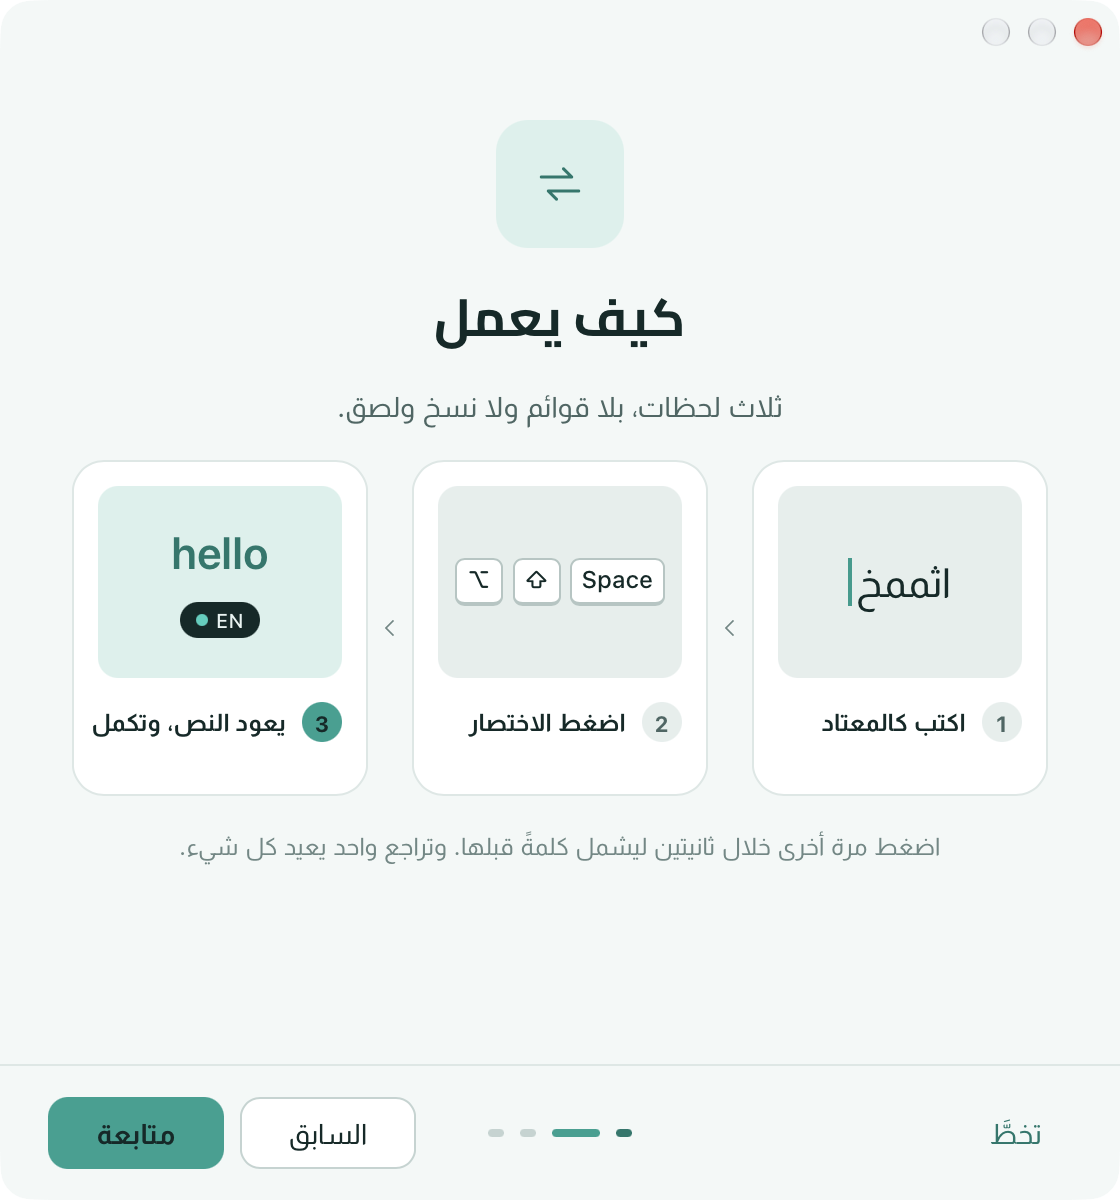
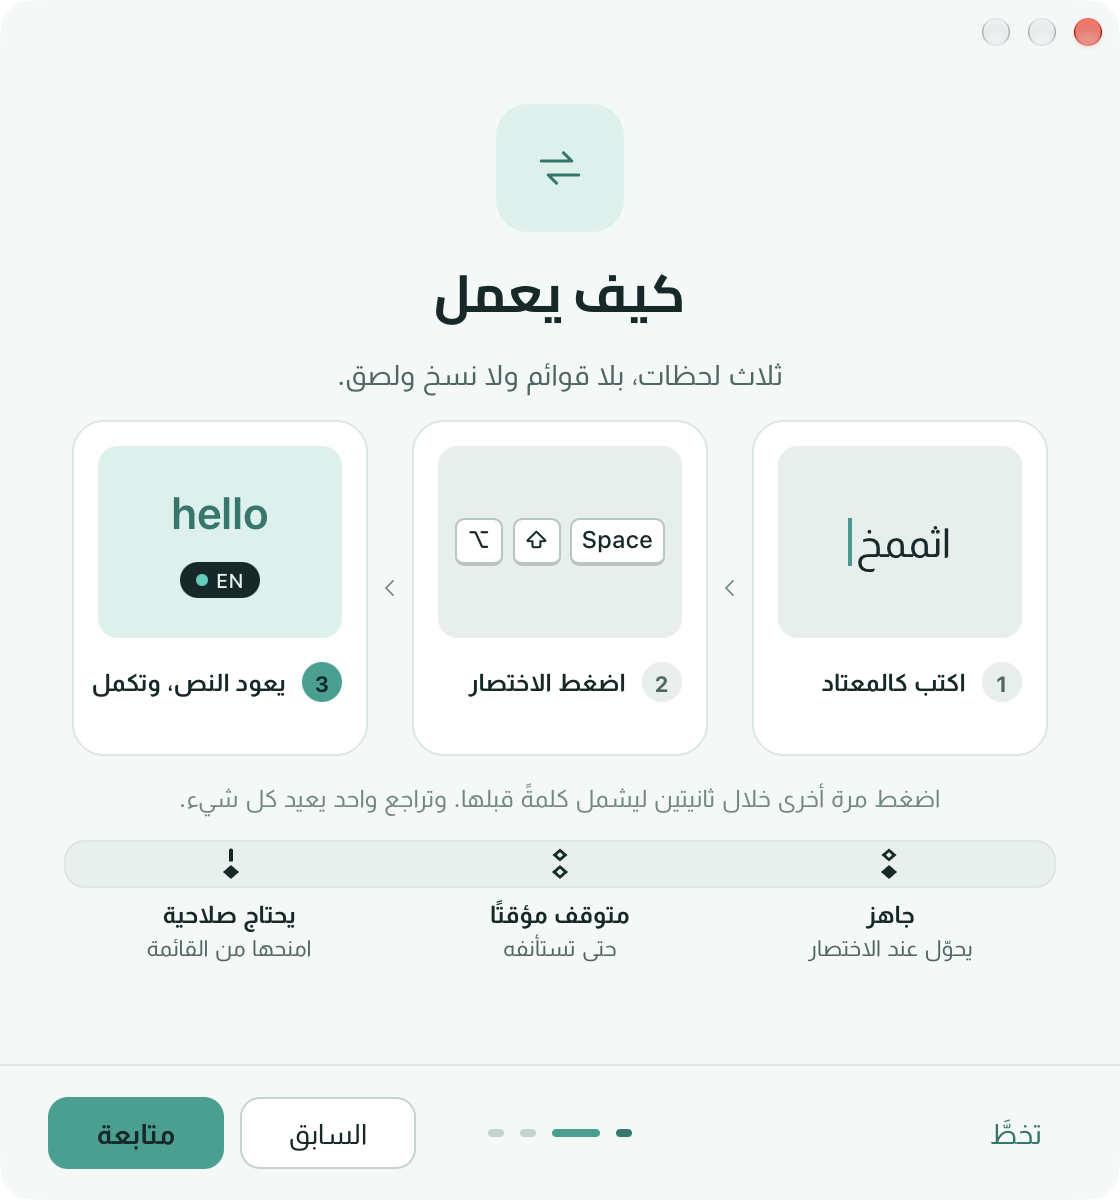
feat(welcome): menu bar legend in "how it works"; fix page-initiated window close
- Welcome step 2 shows the menu bar icon's three faces (Ready, Paused,
  Needs Permission) in a mini bar, one short line under each; the window
  stays 600 tall (step 2 sits tight like step 3). From Figma
  `Welcome / Menu bar legend`; glyphs are the template assets as a mask.
- One wording for the state: «يحتاج صلاحية» / "Needs Permission".
- Capabilities gain core:window:allow-close: Done and Cancel in the report
  window, and About's "show welcome again", now close their windows.
- capture.sh: CAPTURE_ONLY=<prefix> recaptures a subset.

diff --git a/src/lib/components/MenuBarLegend.svelte b/src/lib/components/MenuBarLegend.svelte
@@ -1,0 +1,97 @@
+<script lang="ts">
+  /**
+   * `Welcome / Menu bar legend` in 02 — Components: the three faces of the menu bar icon in
+   * a small bar of their own, each with one line saying what it means. The glyphs are the
+   * real template images, drawn as a mask in the text colour so they follow the appearance
+   * the way the system tints the real ones. The order follows the reading direction.
+   */
+  import { t } from '../state.svelte'
+  import ready from '../../assets/menubar/ready.png'
+  import paused from '../../assets/menubar/paused.png'
+  import needs from '../../assets/menubar/needs-permission.png'
+
+  const states = [
+    { key: 'ready', glyph: ready },
+    { key: 'paused', glyph: paused },
+    { key: 'needs', glyph: needs },
+  ] as const
+</script>
+
+<div class="legend">
+  <div class="bar" aria-hidden="true">
+    {#each states as state (state.key)}
+      <span class="cell"><span class="glyph" style:--glyph="url({state.glyph})"></span></span>
+    {/each}
+  </div>
+  <ul class="captions">
+    {#each states as state (state.key)}
+      <li>
+        <span class="label">{t(`onboarding.how.menuBar.${state.key}.label`)}</span>
+        <span class="body">{t(`onboarding.how.menuBar.${state.key}.body`)}</span>
+      </li>
+    {/each}
+  </ul>
+</div>
+
+<style>
+  /* Wider than the text column, like the three moments above it. */
+  .legend {
+    display: flex;
+    flex: none;
+    flex-direction: column;
+    gap: var(--space-4);
+    width: 496px;
+  }
+
+  .bar {
+    display: flex;
+    height: 24px;
+    border: 1px solid var(--border-subtle);
+    border-radius: var(--radius-md);
+    background: var(--bg-surface-secondary);
+    overflow: hidden;
+  }
+
+  .cell {
+    display: grid;
+    flex: 1;
+    place-items: center;
+  }
+
+  /* 18pt, the size the real icon is drawn at. */
+  .glyph {
+    width: 18px;
+    height: 18px;
+    background: var(--text-primary);
+    mask: var(--glyph) center / 18px 18px no-repeat;
+    -webkit-mask: var(--glyph) center / 18px 18px no-repeat;
+  }
+
+  .captions {
+    display: flex;
+    margin: 0;
+    padding: 0;
+    list-style: none;
+  }
+
+  .captions li {
+    display: flex;
+    flex: 1;
+    flex-direction: column;
+    align-items: center;
+    padding: 0 var(--space-4);
+    text-align: center;
+  }
+
+  .label {
+    font-size: var(--size-label);
+    line-height: var(--leading-label);
+    font-weight: 700;
+  }
+
+  .body {
+    color: var(--text-secondary);
+    font-size: var(--size-caption);
+    line-height: var(--leading-caption);
+  }
+</style>

diff --git a/src/Onboarding.svelte b/src/Onboarding.svelte
@@ -9,6 +9,7 @@
   import HowStep from './lib/components/HowStep.svelte'
   import Icon from './lib/components/Icon.svelte'
   import Keycap from './lib/components/Keycap.svelte'
+  import MenuBarLegend from './lib/components/MenuBarLegend.svelte'
   import PermissionCard from './lib/components/PermissionCard.svelte'
   import PracticeField from './lib/components/PracticeField.svelte'
   import WelcomeProgress from './lib/components/WelcomeProgress.svelte'
@@ -175,6 +176,7 @@
         <HowStep stage="fixed" number={3} label={t('onboarding.how.fixed')} from={t('onboarding.welcome.sampleFrom')} to={t('onboarding.welcome.sampleTo')} {keys} />
       </div>
       <p class="note">{t('onboarding.how.note')}</p>
+      <MenuBarLegend />
     {:else if step === 3}
       <span class="hero"><Icon name="accessibility" size={28} /></span>
       <h1>{t('onboarding.permission.title')}</h1>
@@ -288,7 +290,9 @@
     overflow-y: auto;
   }
 
-  /* The permission step and the "move it first" note carry more, so they sit tighter. */
+  /* The steps that carry more — how it works with its menu bar legend, the permission, and
+     the "move it first" note — sit tighter, so the window keeps its height. */
+  main.step-2,
   main.step-3,
   main.compact {
     gap: var(--space-12);

diff --git a/src-tauri/src/menu_text.rs b/src-tauri/src/menu_text.rs
@@ -46,7 +46,7 @@ pub struct Strings {
 const AR: Strings = Strings {
     name: "بدّل",
     ready: "جاهز",
-    needs_permission: "تحتاج صلاحية",
+    needs_permission: "يحتاج صلاحية",
     paused: "متوقف مؤقتًا",
     hint: "حوّل التحديد أو آخر كلمة",
     undo: "تراجع",

diff --git a/CHANGELOG.md b/CHANGELOG.md
@@ -10,11 +10,15 @@
 - **رمز شريط القوائم** بثلاث حالات تُقرأ دون فتح القائمة: جاهز (الشبح فوق والنقطة تحت)، ومتوقف (كلاهما مفرغ)، ويحتاج صلاحية (علامة «!» نقطتها المعيّنة). أحادي اللون يلوّنه macOS.
 - **ألوان الواجهة كلها من نظام واحد** بالوضعين: نعناع للأفعال، وحبر للنص، ومرجان لنقطة الانتباه الواحدة. التباين مقيس، ونصوص الأزرار الأساسية حبر لا أبيض.
 - **خطوط بأدوار ثابتة:** Cairo Bold للعلامة والعناوين، وAlmarai لبقية النص، وخط النظام للاتينية. أُزيل Cairo SemiBold.
-- **ترحيب جديد بأربع خطوات:** مرحبًا ← كيف يعمل ← الصلاحية ← جرّب. ينتقل وحده إلى التجربة حين تُمنح الصلاحية، ويقول ما حدث إن لم يتحوّل شيء أو كان «الإدخال الآمن» مفعّلًا، وينبّه إن كان بدّل يعمل من صورة القرص.
+- **ترحيب جديد بأربع خطوات:** مرحبًا ← كيف يعمل ← الصلاحية ← جرّب. وفي «كيف يعمل» شريط صغير يُري وجوه أيقونة شريط القوائم الثلاثة (جاهز، ومتوقف مؤقتًا، ويحتاج صلاحية) وما يعنيه كل منها. ينتقل وحده إلى التجربة حين تُمنح الصلاحية، ويقول ما حدث إن لم يتحوّل شيء أو كان «الإدخال الآمن» مفعّلًا، وينبّه إن كان بدّل يعمل من صورة القرص.
 - **إشعار التحويل** حبّة حبر واحدة بالوضعين: الكلمة الأصلية وسهم والنتيجة، وشارة اللغة التي انتقلت إليها، وظل خفيف واحد.
 - **القائمة:** «تراجع: اثممخ ← hello» عنصر واحد يسمّي ما يتراجع عنه.
 - **«ماذا يتضمّن؟»** في حول يكشف ما تنسخه معلومات التشخيص وما لا تنسخه أبدًا.
 - **فتح بدّل من «التطبيقات»** وهو يعمل يفتح إعداداته، فلا يضيع الطريق إليها إن أخفيت أيقونة الشريط.
+
+### إصلاحات
+
+- **«أعد عرض شاشة الترحيب»** في حول يغلق الإعدادات كما ينبغي، بدل أن تبقى مفتوحة خلف الترحيب.
 
 ### الإبلاغ عن مشكلة
 

diff --git a/docs/test-matrix.md b/docs/test-matrix.md
@@ -120,6 +120,14 @@
 - **لون الشريط في macOS 27 من الخلفية لا من المظهر:** بالمظهر الفاتح وخلفية داكنة بقي الشريط داكنًا والرمز أبيض؛ الرمز الأسود ظهر بخلفية فاتحة.
 - **اتجاه القائمة الأصيلة يتبع لغة النظام:** القائمة الإنجليزية على نظام عربي تُرسم من اليمين (العلامة والاختصارات معكوسة)، كما في لقطة v1. سلوك `NSMenu`، لا تراجع في A2.
 
+### شرح وجوه الأيقونة في «كيف يعمل» — 2026-10-01
+
+أُضيف شريط مصغّر بالوجوه الثلاثة (جاهز، ومتوقف مؤقتًا، ويحتاج صلاحية) وسطر قصير تحت كل وجه (`MenuBarLegend.svelte`، ومقابله في Figma `Welcome / Menu bar legend`). بقيت النافذة 600: ضُغط الشريط (24 نقطة) ومسافات الخطوة 2 كالخطوة 3 (حشوة علوية 24 وفجوات 12). ✓ قياس بالمتصفح عند 560×600: لا فيض بالعربية ولا بالإنجليزية (الملاحظة الإنجليزية بسطرين)، وينتهي الشريط فوق التذييل بـ32 نقطة بالإنجليزية و50 بالعربية، وكل وصف سطر واحد. ✓ لقطات الخطوة 2 الأربع من البناء الموقّع (`CAPTURE_ONLY=onboarding:2 ./scripts/capture.sh`)، والرموز قناع من أصول Template نفسها فتتبع لون النص في الوضعين.
+
+### إغلاق النوافذ من الصفحة — 2026-10-01
+
+كشفه إثبات المرحلة 2 (البريف): «تم» و«إلغاء» في نافذة الإبلاغ، و«أعد عرض شاشة الترحيب» في «حول»، لم تكن تغلق نوافذها، لأن `core:window:allow-close` ناقصة من `src-tauri/capabilities/default.json`. ✓ بعد الإضافة على البناء الموقّع: «تم» بعد إرسال حقيقي (#3) أغلق النافذة، و«إلغاء» أغلقها، و«أعد عرض شاشة الترحيب» أغلق الإعدادات وفتح الترحيب.
+
 ## المتبقي
 
 ما لم يُختبر بعد مذكور في README، في جدول «أين يعمل».

diff --git a/src/assets/menubar/README.md b/src/assets/menubar/README.md
@@ -1,0 +1,5 @@
+Byte-for-byte copies of the menu bar glyphs in `src-tauri/icons/` (`tray.png`, `tray-paused.png`,
+`tray-needs-permission.png`), exported from Figma `09 · Export Masters` (`design/icon/README.md`).
+The welcome window's "how it works" step draws them as a mask in the text colour, so they follow
+the appearance the way the system tints the real ones. Re-copy them when the glyphs change; do
+not edit them here.
